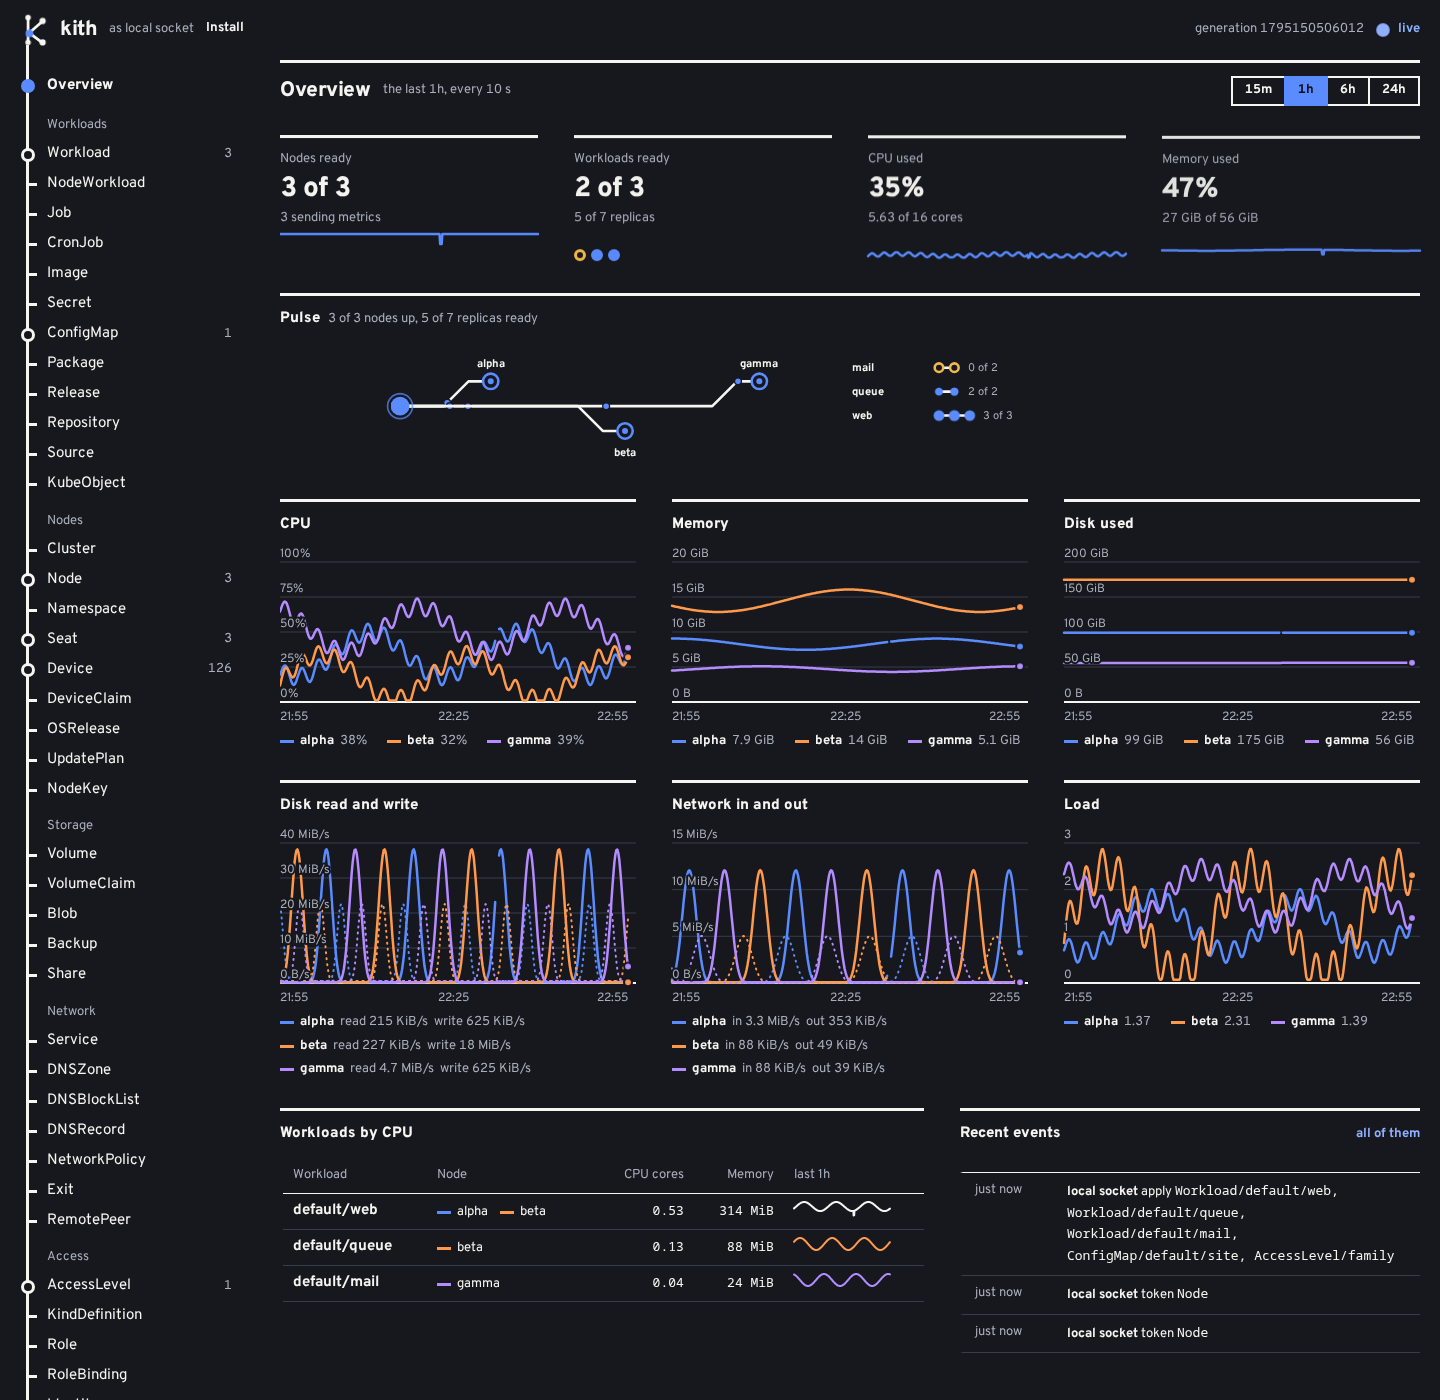
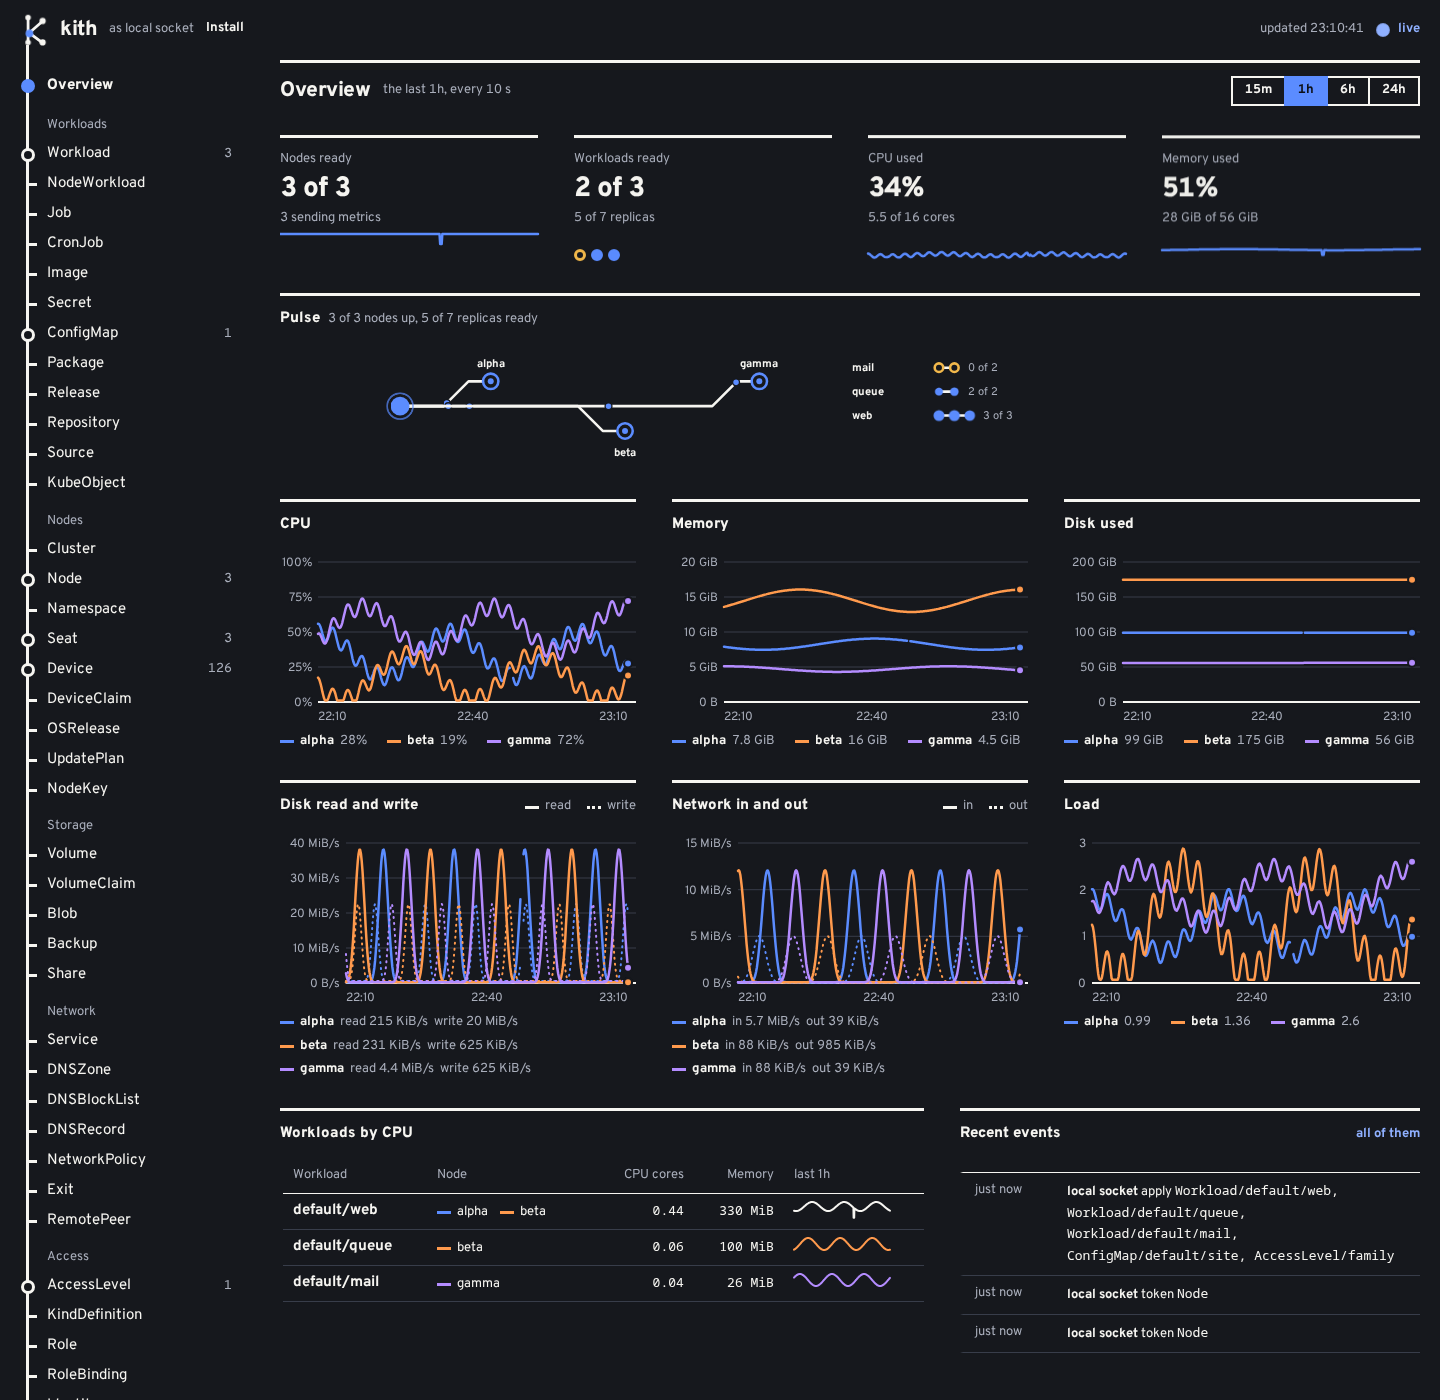
kithd overview: DESIGN.md and the dashboard's photographs show the axis gutter, the line-style key and the updated time (T-1112)
Claude-Session: https://claude.ai/code/session_014VmQByGwffhEyMwjRcdjvq

diff --git a/DESIGN.md b/DESIGN.md
@@ -35,7 +35,7 @@ wear Line map.
 ## Signature moves
 1. The rail: the mark's stem goes on down the page as the line the kinds are stops on. A ring where the cluster has some of that kind, a tick where it has none, the blue stop where you are.
 2. Pulse as a line map: the hub, one trunk out of it and a 45° branch to every node's stop, with packets on the lines; under each thing that runs, a short line with a stop for every replica. From the same watch the tables use.
-3. The overview (`#/`, the page's first view) is a dashboard drawn the same way: four tiles hanging from ink rules (a heavy figure, a dim line under it, a sparkline in blue), then Pulse, then a panel per measure (CPU, memory, disk, disk and network traffic, load) with a 2 px line per node and a gap where a node did not answer, one dashed crosshair and tooltip shared by every panel (pointer or arrow keys), a 15m / 1h / 6h / 24h range of square buttons and a refresh every 10 s; under them the busiest workloads and what was done last. With no metrics it says so in one dim line and keeps the rest.
+3. The overview (`#/`, the page's first view) is a dashboard drawn the same way: four tiles hanging from ink rules (a heavy figure, a dim line under it, a sparkline in blue), then Pulse, then a panel per measure (CPU, memory, disk, disk and network traffic, load) with a 2 px line per node and a gap where a node did not answer, the axis's figures in a gutter to the left of the lines, a panel with two measures keyed in its header (the first solid, the second dotted), one dashed crosshair and tooltip shared by every panel (pointer or arrow keys), a 15m / 1h / 6h / 24h range of square buttons and a refresh every 10 s; under them the busiest workloads and what was done last. With no metrics it says so in one dim line and keeps the rest.
 4. Branches: an open group of fields hangs from an ink line at its left, and a group inside it from another; the changed lines of a diff carry a blue or a red line the same way.
 
 ## States
